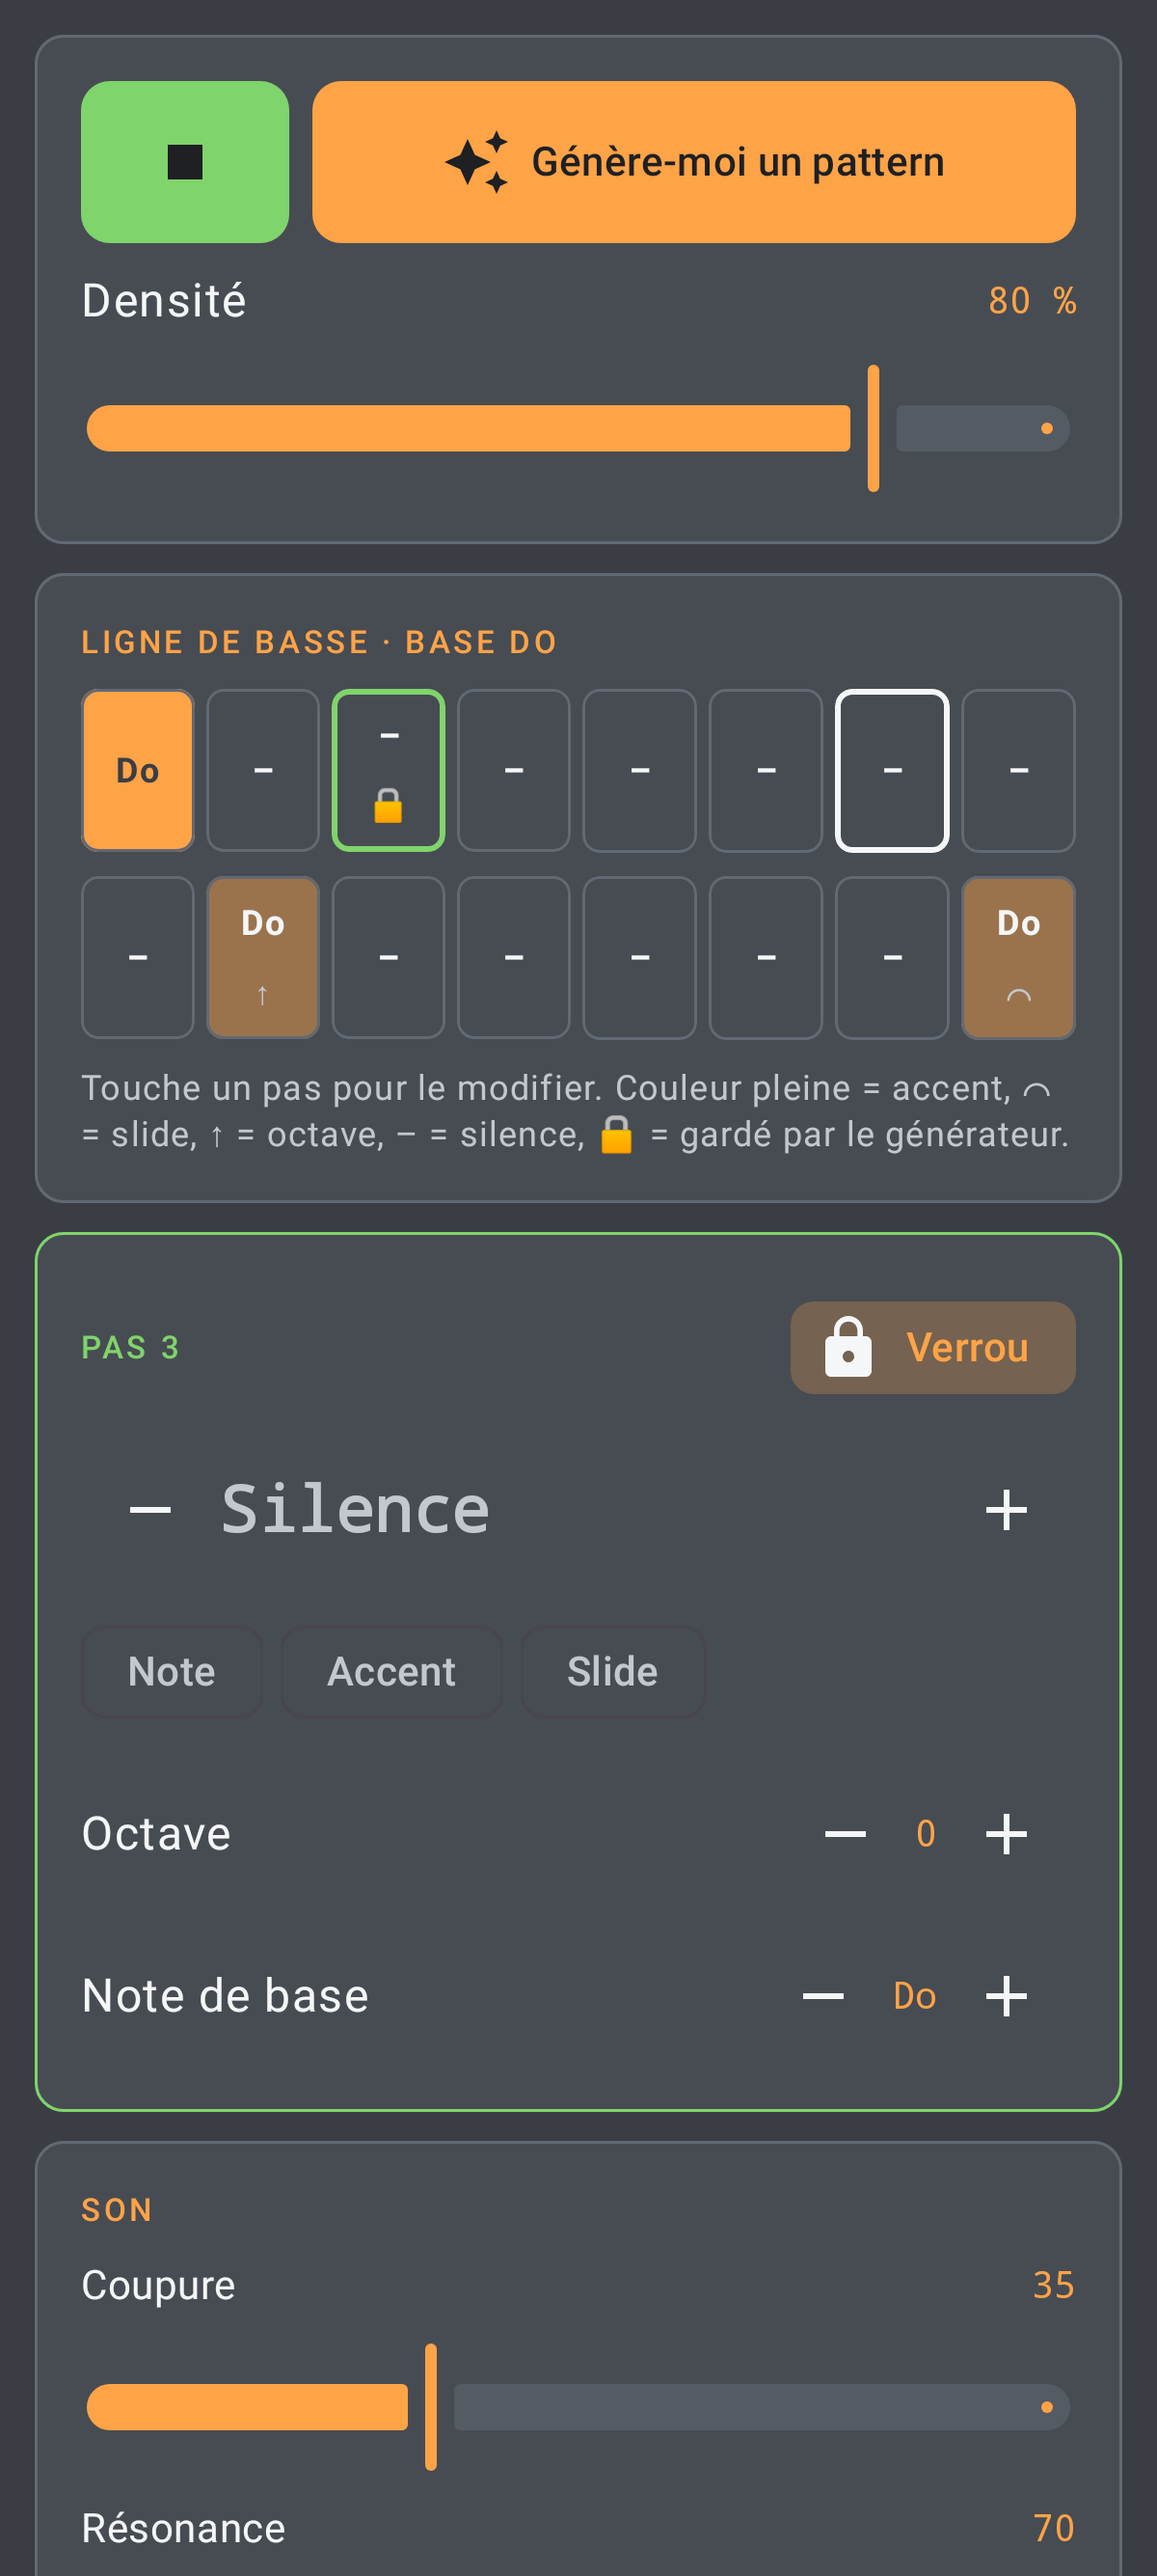
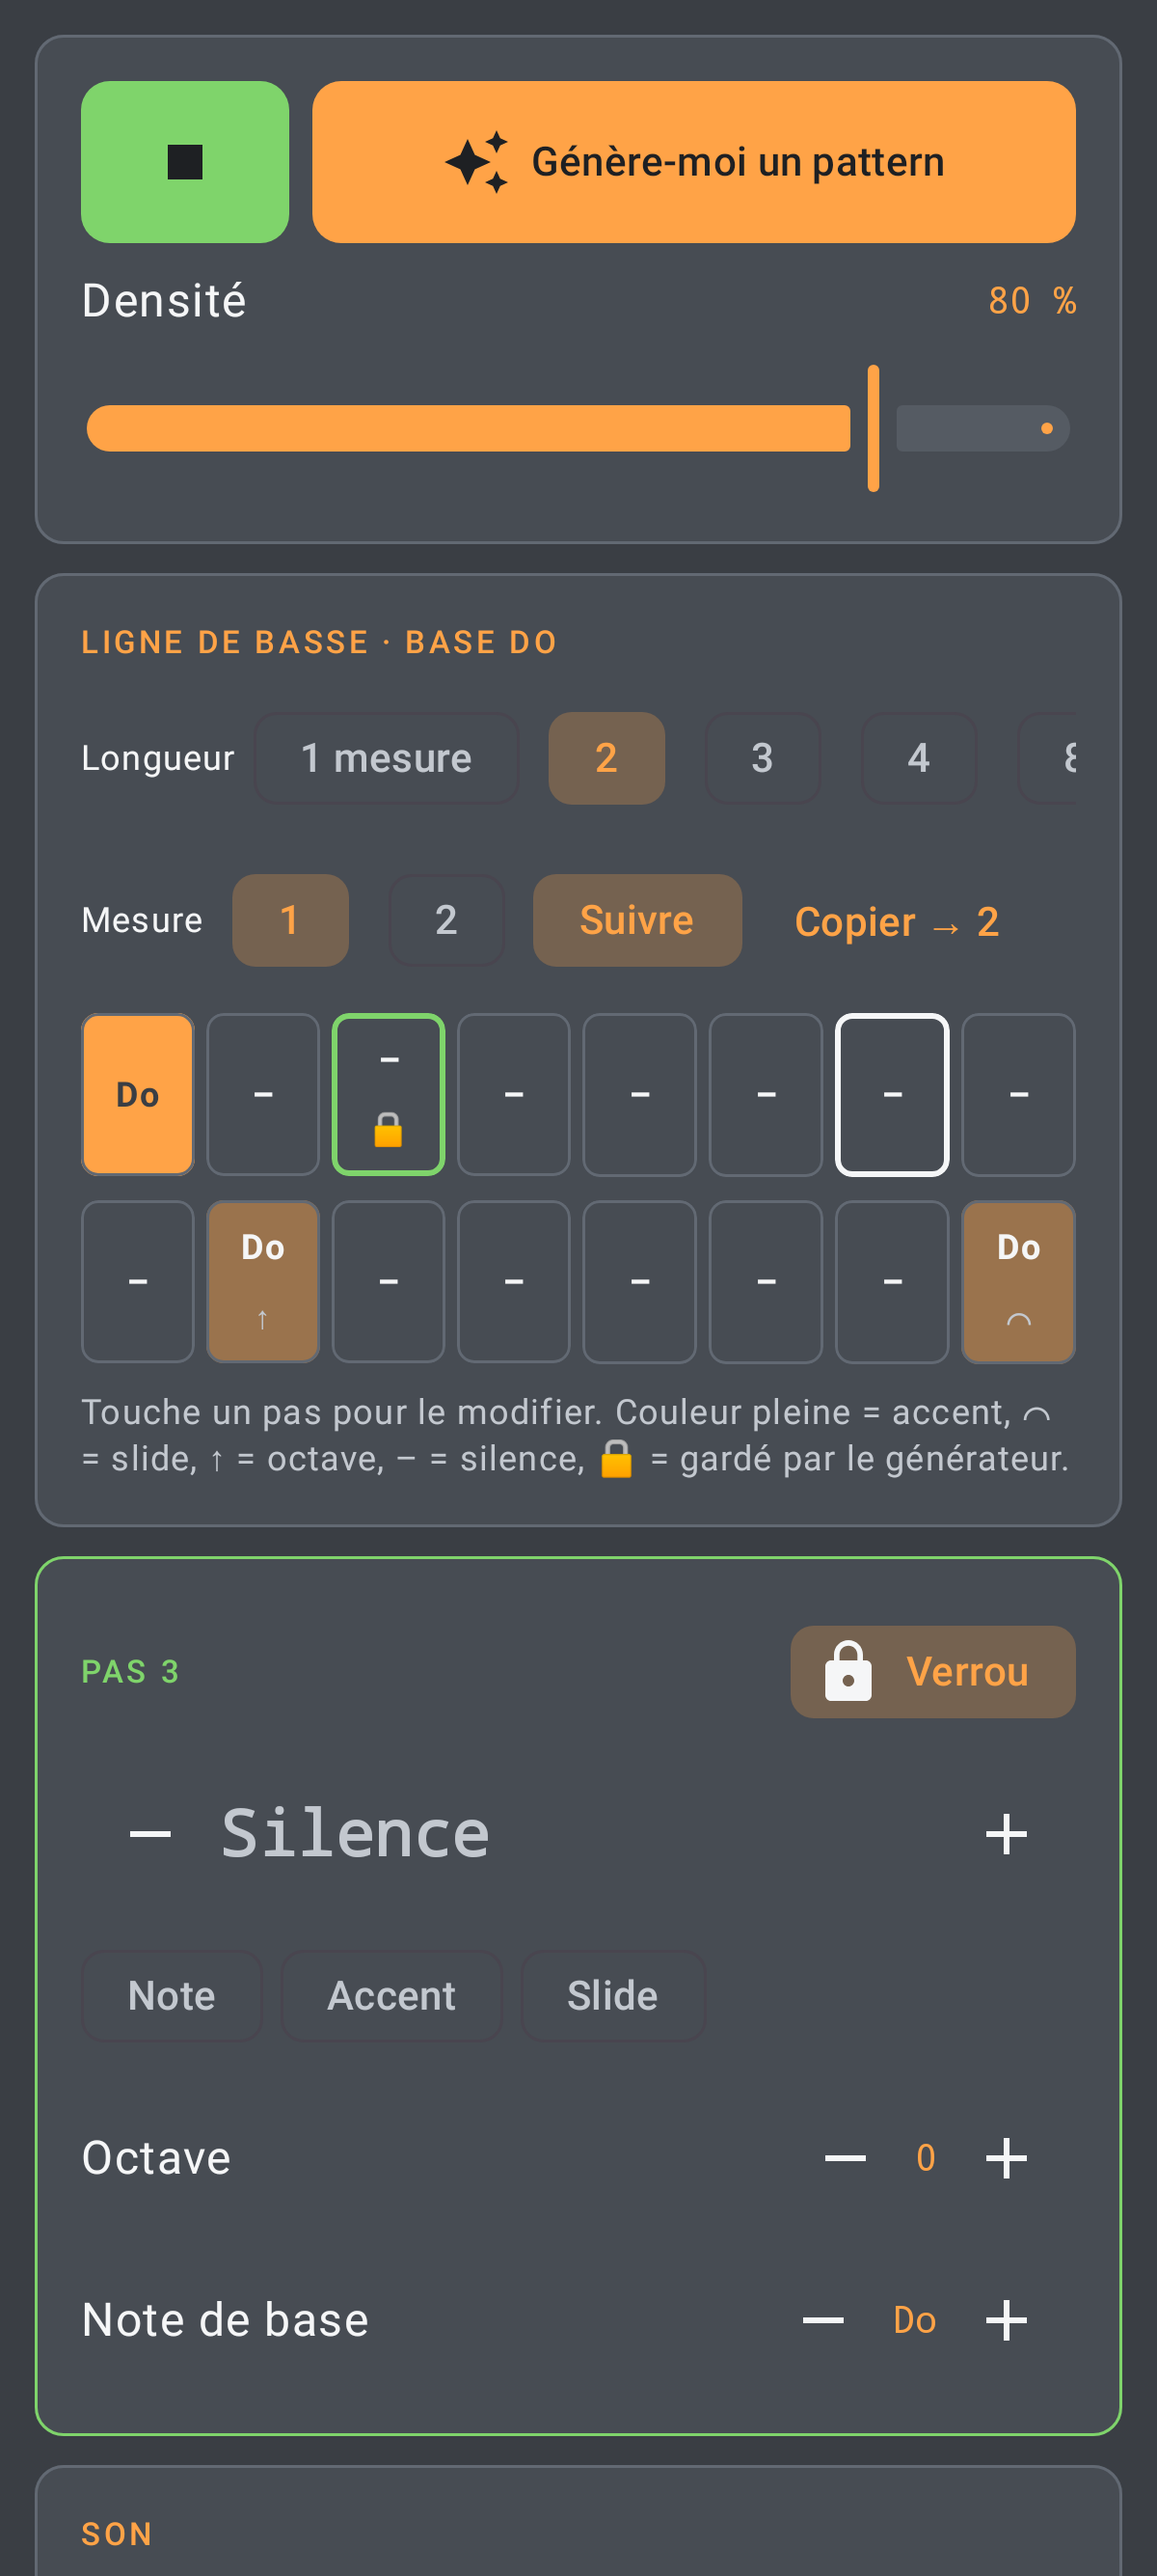
Acid line up to 8 bars with pages, page copy and a correct playhead
The engine accepted 64 steps but the screen showed 16 and the length was
fixed. AcidTrack and AcidPattern now hold 128 steps (8 bars); the Acid
screen picks 1/2/3/4/8 bars, shows one bar at a time with page chips,
follows the playhead while playing, and copies a bar onto the next (the
usual way to build a two-pattern line). The playhead uses the absolute
step so it no longer wraps with the drum loop. Older projects load with
room for 8 bars. Model test for page copy and migration.

Claude-Session: https://claude.ai/code/session_01NqonxZBBysqqWBbnsC2VTP

diff --git a/app/src/main/java/com/pocketstudio/app/acid/AcidScreen.kt b/app/src/main/java/com/pocketstudio/app/acid/AcidScreen.kt
@@ -1,5 +1,12 @@
 package com.pocketstudio.app.acid
 
+import androidx.compose.runtime.setValue
+import androidx.compose.runtime.getValue
+import androidx.compose.runtime.mutableStateOf
+import androidx.compose.runtime.mutableIntStateOf
+import androidx.compose.runtime.saveable.rememberSaveable
+import androidx.compose.foundation.horizontalScroll
+import androidx.compose.material3.TextButton
 import androidx.compose.foundation.background
 import androidx.compose.foundation.border
 import androidx.compose.foundation.clickable
@@ -63,6 +70,8 @@ data class AcidActions(
     val setSound: (Int, Float) -> Unit = { _, _ -> },
     val shiftRoot: (Int) -> Unit = {},
     val setDensity: (Float) -> Unit = {},
+    val setBars: (Int) -> Unit = {},
+    val copyPage: (from: Int, to: Int) -> Unit = { _, _ -> },
 )
 
 @Composable
@@ -104,21 +113,58 @@ fun AcidScreen(
             Slider(value = acid.density, onValueChange = actions.setDensity)
         }
 
-        StepGrid(acid, currentStep, selected, actions.selectStep)
+        StepGrid(acid, playing, currentStep, selected, actions)
         StepEditor(acid, selected, actions)
         SoundCard(acid, actions)
     }
 }
 
 @Composable
-private fun StepGrid(acid: AcidPattern, currentStep: Int, selected: Int, onSelect: (Int) -> Unit) {
+private fun StepGrid(acid: AcidPattern, playing: Boolean, currentStep: Int, selected: Int, actions: AcidActions) {
     val playStep = if (currentStep >= 0) currentStep % acid.length else -1
+    val pages = (acid.length + AcidPattern.STEPS_PER_PAGE - 1) / AcidPattern.STEPS_PER_PAGE
+    var page by rememberSaveable { mutableIntStateOf(0) }
+    var follow by rememberSaveable { mutableStateOf(true) }
+    if (page >= pages) page = 0
+    // While playing, the grid shows the bar being heard (unless the user picked one).
+    val shown = if (playing && follow && playStep >= 0) playStep / AcidPattern.STEPS_PER_PAGE else page
+    val chipColors = FilterChipDefaults.filterChipColors(selectedContainerColor = Neon.Cyan.copy(alpha = 0.25f), selectedLabelColor = Neon.Cyan)
     NeonCard {
         SectionLabel("Ligne de basse · base ${noteNameFr(acid.root)}")
+        Row(Modifier.horizontalScroll(rememberScrollState()), verticalAlignment = Alignment.CenterVertically, horizontalArrangement = Arrangement.spacedBy(6.dp)) {
+            Text("Longueur", style = MaterialTheme.typography.bodySmall)
+            AcidPattern.LENGTHS_IN_BARS.forEach { bars ->
+                FilterChip(
+                    selected = acid.length == bars * AcidPattern.STEPS_PER_PAGE,
+                    onClick = { actions.setBars(bars) },
+                    label = { Text(if (bars == 1) "1 mesure" else "$bars") },
+                    colors = chipColors,
+                    modifier = Modifier.testTag("acid_bars_$bars"),
+                )
+            }
+        }
+        if (pages > 1) {
+            Row(Modifier.horizontalScroll(rememberScrollState()), verticalAlignment = Alignment.CenterVertically, horizontalArrangement = Arrangement.spacedBy(6.dp)) {
+                Text("Mesure", style = MaterialTheme.typography.bodySmall)
+                for (p in 0 until pages) {
+                    FilterChip(
+                        selected = shown == p,
+                        onClick = { page = p; follow = false },
+                        label = { Text("${p + 1}") },
+                        colors = chipColors,
+                        modifier = Modifier.testTag("acid_page_$p"),
+                    )
+                }
+                FilterChip(selected = follow, onClick = { follow = !follow }, label = { Text("Suivre") }, colors = chipColors)
+                TextButton(onClick = { actions.copyPage(shown, (shown + 1) % pages) }, modifier = Modifier.testTag("acid_copy_page")) {
+                    Text("Copier → ${(shown + 1) % pages + 1}")
+                }
+            }
+        }
         for (row in 0 until 2) {
             Row(horizontalArrangement = Arrangement.spacedBy(4.dp)) {
                 for (col in 0 until 8) {
-                    val i = row * 8 + col
+                    val i = shown * AcidPattern.STEPS_PER_PAGE + row * 8 + col
                     val s = acid.steps[i]
                     val isSelected = i == selected
                     val fill = when {
@@ -141,7 +187,7 @@ private fun StepGrid(acid: AcidPattern, currentStep: Int, selected: Int, onSelec
                                 },
                                 shape = RoundedCornerShape(6.dp),
                             )
-                            .clickable { onSelect(i) }
+                            .clickable { actions.selectStep(i) }
                             .testTag("acid_step_$i"),
                         contentAlignment = Alignment.Center,
                     ) {

diff --git a/project-model/src/main/kotlin/com/pocketstudio/model/Acid.kt b/project-model/src/main/kotlin/com/pocketstudio/model/Acid.kt
@@ -72,10 +72,21 @@ data class AcidPattern(
         )
     }
 
+    /** Copies the 16 steps of bar [from] onto bar [to] (both 0-based), locks included. */
+    fun copyPage(from: Int, to: Int): AcidPattern {
+        val n = STEPS_PER_PAGE
+        val steps = steps.toMutableList()
+        for (i in 0 until n) if (to * n + i < MAX_STEPS && from * n + i < MAX_STEPS) steps[to * n + i] = steps[from * n + i]
+        val movedLocks = locked.filter { it / n == from }.map { it - from * n + to * n }
+        return copy(steps = steps, locked = locked.filter { it / n != to }.toSet() + movedLocks).sanitized()
+    }
+
     fun withStep(index: Int, step: AcidStep) = copy(steps = steps.toMutableList().also { it[index] = step.sanitized() })
 
     companion object {
-        const val MAX_STEPS = 64
+        const val MAX_STEPS = 128  // 8 bars
+        const val STEPS_PER_PAGE = 16
+        val LENGTHS_IN_BARS = listOf(1, 2, 3, 4, 8)
     }
 }
 

diff --git a/app/src/main/java/com/pocketstudio/app/ui/AppRoot.kt b/app/src/main/java/com/pocketstudio/app/ui/AppRoot.kt
@@ -288,7 +288,7 @@ fun AppRoot() {
                         AcidScreen(
                             acid = project.acid,
                             playing = transport.playing,
-                            currentStep = live.currentStep,
+                            currentStep = live.absoluteStep,
                             selected = selected,
                             actions = AcidActions(
                                 togglePlay = rhythmVm::togglePlay,
@@ -299,6 +299,8 @@ fun AppRoot() {
                                 setSound = rhythmVm::setAcidSound,
                                 shiftRoot = rhythmVm::shiftAcidRoot,
                                 setDensity = rhythmVm::setAcidDensity,
+                                setBars = rhythmVm::setAcidBars,
+                                copyPage = rhythmVm::copyAcidPage,
                             ),
                         )
                     }

diff --git a/app/src/main/java/com/pocketstudio/app/rhythm/RhythmViewModel.kt b/app/src/main/java/com/pocketstudio/app/rhythm/RhythmViewModel.kt
@@ -696,6 +696,19 @@ class RhythmViewModel(app: Application) : AndroidViewModel(app) {
     }
 
     /** New random line (locked steps kept). */
+    /** Pattern length in bars (1 bar = 16 steps): the end of a longer line is kept when shortening. */
+    fun setAcidBars(bars: Int) {
+        session.edit { p -> p.copy(acid = p.acid.copy(length = bars * AcidPattern.STEPS_PER_PAGE).sanitized()) }
+        if (_selectedAcidStep.value >= project.value.acid.length) _selectedAcidStep.value = 0
+        pushAcid(project.value.acid)
+    }
+
+    /** Copies bar [from] onto bar [to] (0-based), the usual way to build a longer line. */
+    fun copyAcidPage(from: Int, to: Int) {
+        session.edit { p -> p.copy(acid = p.acid.copyPage(from, to)) }
+        pushAcid(project.value.acid)
+    }
+
     fun generateAcid() {
         session.edit { it.copy(acid = acidGenerator.generate(it.acid)) }
         pushAcid(project.value.acid)

diff --git a/project-model/src/test/kotlin/com/pocketstudio/model/ProjectModelTest.kt b/project-model/src/test/kotlin/com/pocketstudio/model/ProjectModelTest.kt
@@ -426,3 +426,18 @@ class HarmonyTest {
         assertEquals(chord.notes, Performance().expand(chord))
     }
 }
+
+class AcidPagesTest {
+    @Test
+    fun longerLinesAndPageCopy() {
+        var a = AcidPattern(length = 32).withStep(3, AcidStep(note = 5, gate = true, accent = true))
+        a = a.copy(locked = setOf(3)).copyPage(0, 1)
+        assertEquals(a.steps[3], a.steps[19])
+        assertTrue(19 in a.locked && 3 in a.locked)
+        assertEquals(128, AcidPattern(length = 500).sanitized().length)
+        // Older projects stored 64 steps: they load with room for 8 bars.
+        val old = ProjectJson.decode("""{"acid":{"length":32,"steps":[]}}""").acid
+        assertEquals(AcidPattern.MAX_STEPS, old.steps.size)
+        assertEquals(32, old.length)
+    }
+}

diff --git a/app/src/test/java/com/pocketstudio/app/ScreenshotTest.kt b/app/src/test/java/com/pocketstudio/app/ScreenshotTest.kt
@@ -129,7 +129,7 @@ class ScreenshotTest {
     @Test
     fun acid() = shoot("acid") {
         val pattern = com.pocketstudio.model.AcidGenerator(kotlin.random.Random(3))
-            .generate(com.pocketstudio.model.AcidPattern(locked = setOf(2)))
+            .generate(com.pocketstudio.model.AcidPattern(length = 32, locked = setOf(2)))
         com.pocketstudio.app.acid.AcidScreen(
             acid = pattern,
             playing = true,

diff --git a/engine/src/main/cpp/core/AcidTrack.h b/engine/src/main/cpp/core/AcidTrack.h
@@ -25,7 +25,7 @@ struct AcidStep {
 // sequencer, followed by a saturation stage. Real-time safe after prepare().
 class AcidTrack {
 public:
-    static constexpr int kMaxSteps = 64;
+    static constexpr int kMaxSteps = 128;  // 8 bars of sixteenths
 
     enum Param : int { Cutoff = 0, Resonance, EnvMod, Decay, Accent, Tuning, Waveform, Drive, Level, ParamCount };
 
